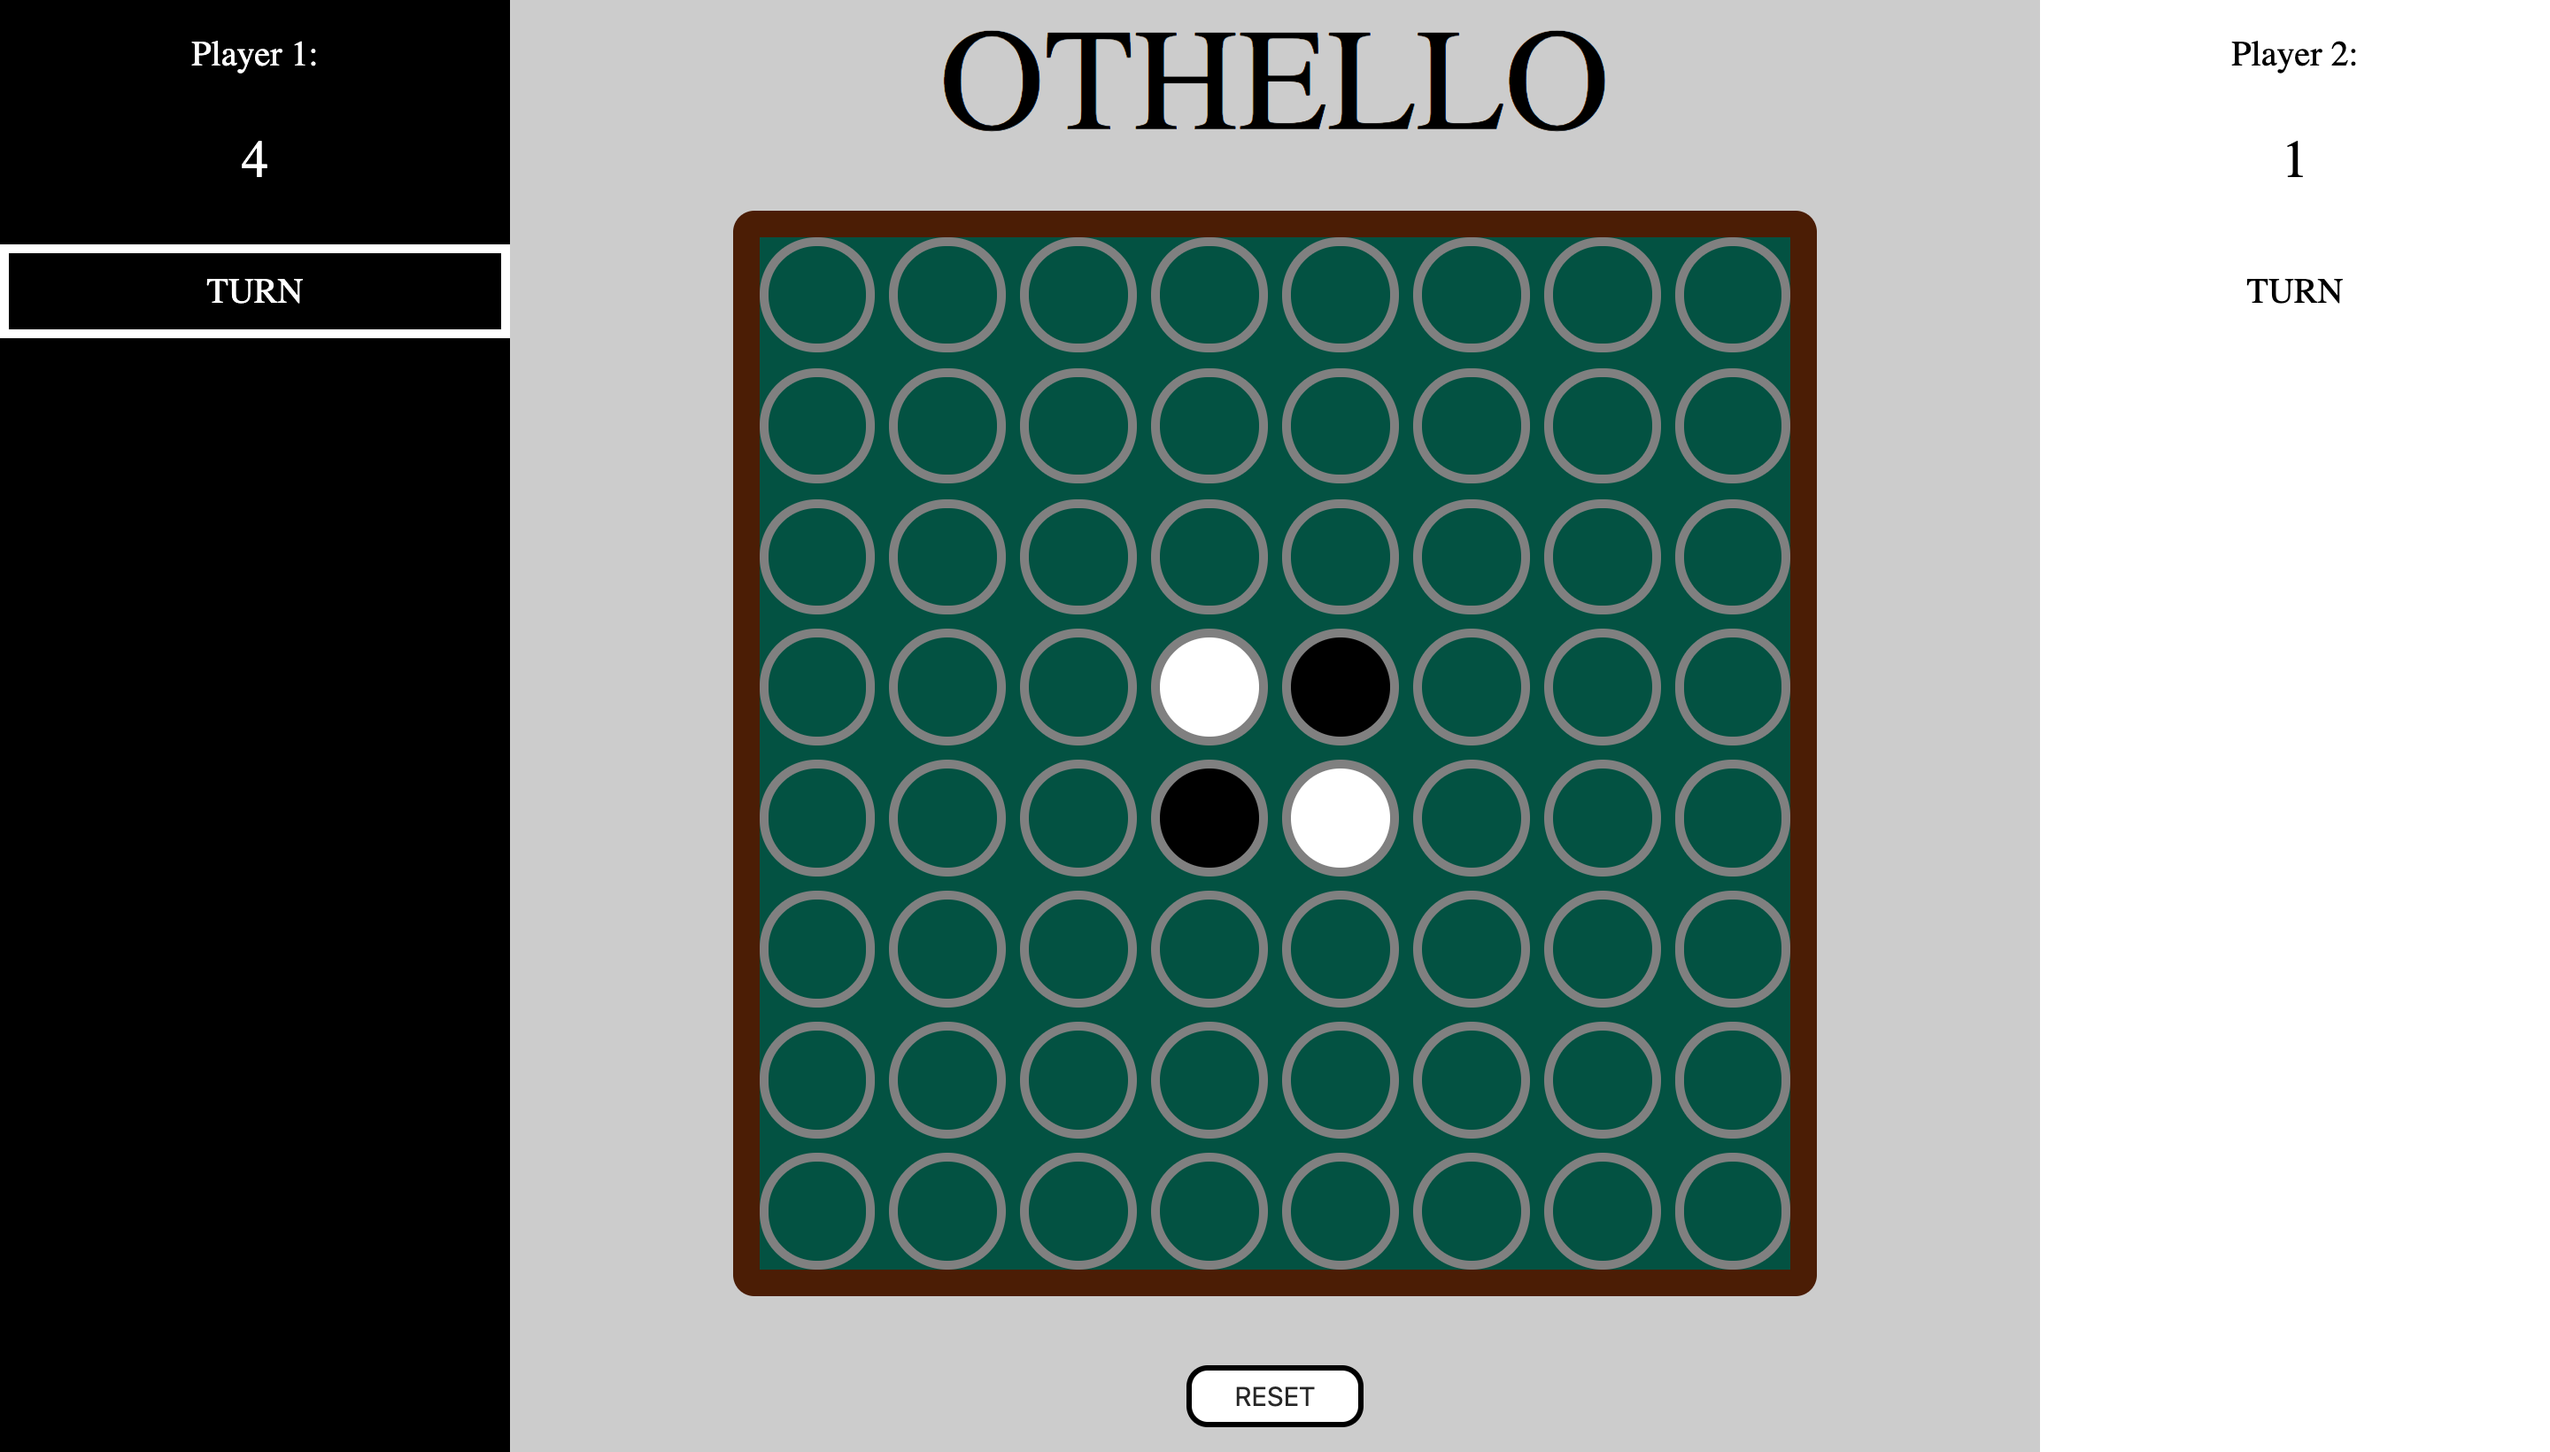
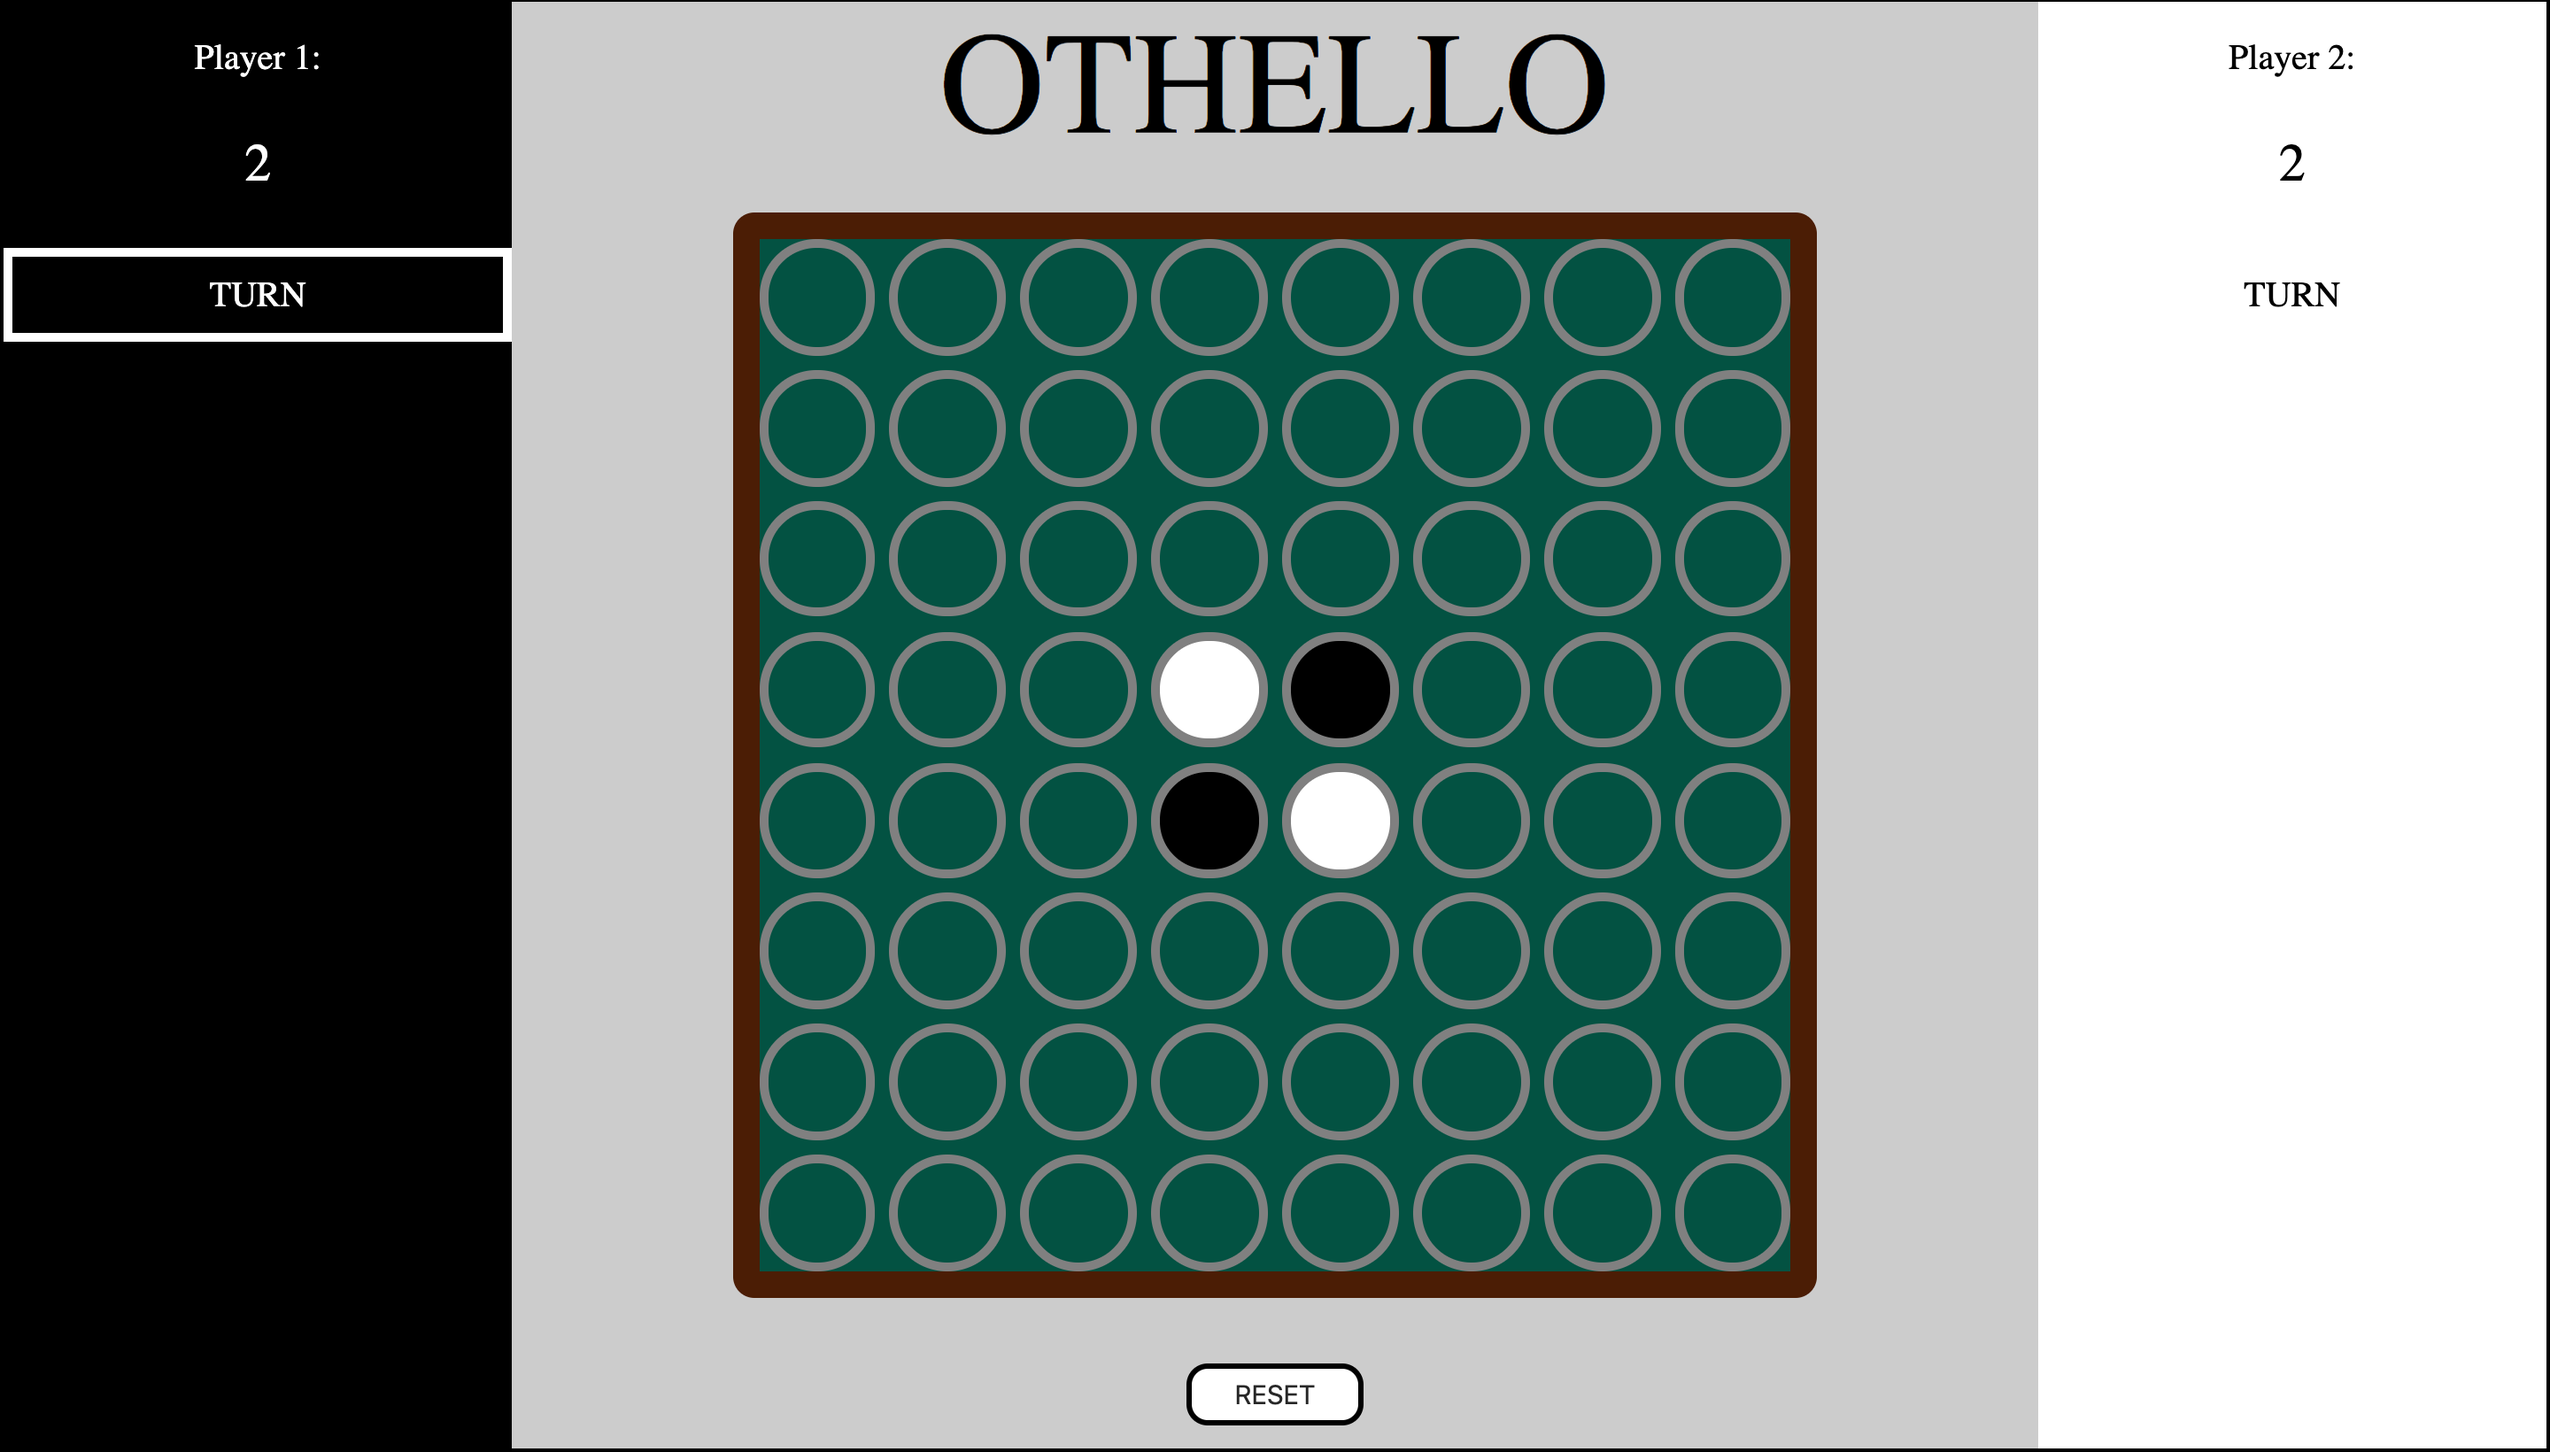
adds border to OthelloSS; fixes black/white chip counting in JS

diff --git a/js/script.js b/js/script.js
@@ -11,6 +11,8 @@ var board, winner, turn;
 // not there's a winner, and which player's turn it is; see methods below for more
 var globalCol = null;
 var globalRow = null;
+var blackChipCount = 0;
+var whiteChipCount = 0;
 
 /*----- cached element references -----*/
 // this'll be where we want to reference a html element to reflect a player's score/current number of chips
@@ -663,6 +665,8 @@ function init() {
     winner = false;  // set winner to false at the beginning of the game
     turn = 1;   // black moves first, so turn is set to 1; look at PLAYERS{} for more info
     resetGlobalIdx();
+    blackChipCount = 0;
+    whiteChipCount = 0;
 
     board.forEach(function (colArr, colIdx) {
         colArr.forEach(function (content, rowIdx) {
@@ -730,8 +734,6 @@ function handleClick(evt) {
 
     console.log(`CLICKED ON board[${colIdx}][${rowIdx}]`);
 
-    let blackChipCount = 0;
-    let whiteChipCount = 0;
     let zeroCount = 0;
     let booly = false;
 
@@ -807,6 +809,8 @@ function handleClick(evt) {
         }
     }
 
+    blackChipCount = 0;
+    whiteChipCount = 0;
     // nested forEach()s to sum up all the white and black ships that are currently in the board app state
     board.forEach(function (colArr, colIdx) {
         colArr.forEach(function (content, rowIdx) {
